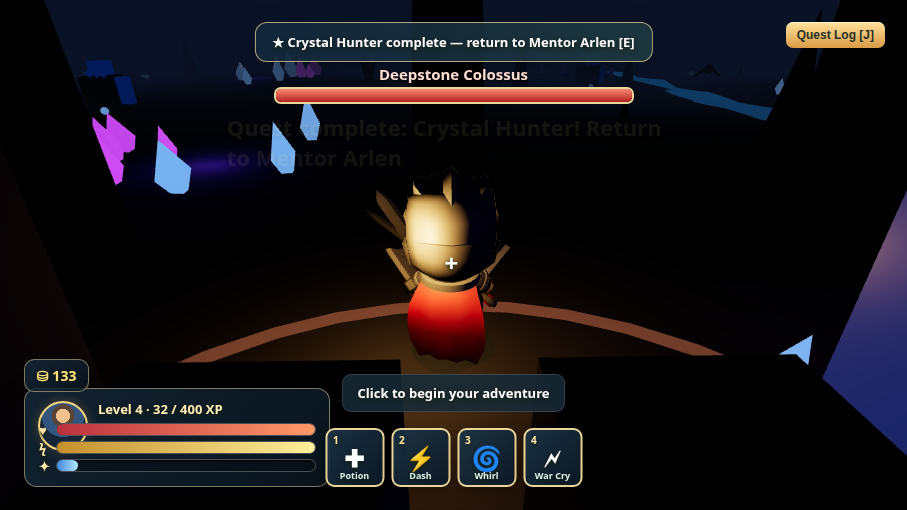
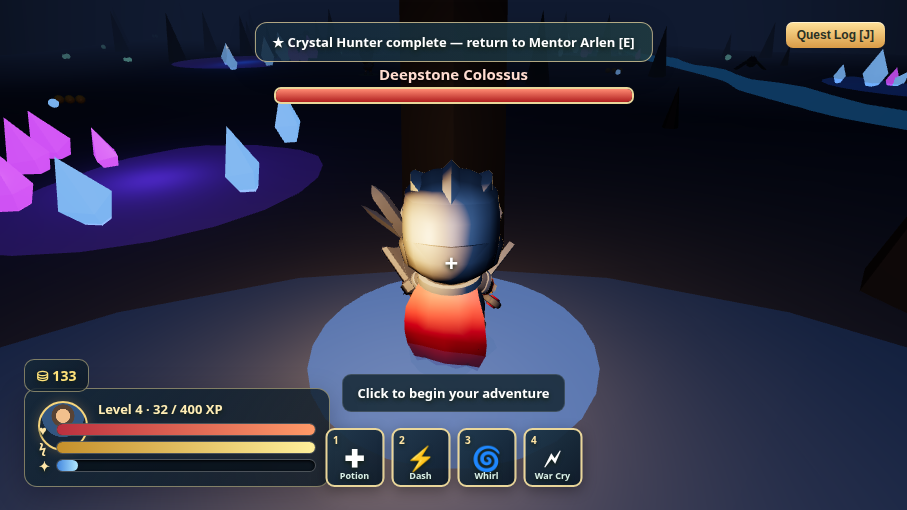
fix: cave readability — brighter ambient, 2.5x torch, moonwell boss light, emissive glow discs, toast lifecycle fix, player fill light

diff --git a/src/main.js b/src/main.js
@@ -9,7 +9,7 @@ renderer.setPixelRatio(Math.min(devicePixelRatio,2)); renderer.setSize(innerWidt
 const scene=new THREE.Scene(); scene.background=new THREE.Color('#8eb9d6'); scene.fog=new THREE.Fog('#a9c5d3',50,148);
 const camera=new THREE.PerspectiveCamera(58,innerWidth/innerHeight,.1,180); const clock=new THREE.Clock();
 const hemi=new THREE.HemisphereLight('#d5efff','#26411f',2.15);scene.add(hemi); const sun=new THREE.DirectionalLight('#ffd49a',3.1); sun.position.set(-55,64,28);sun.castShadow=true;sun.shadow.mapSize.set(1536,1536);sun.shadow.camera.left=-80;sun.shadow.camera.right=80;sun.shadow.camera.top=80;sun.shadow.camera.bottom=-80;sun.shadow.bias=-.00025;scene.add(sun);
-const world=new THREE.Group();scene.add(world); const cave=new THREE.Group();cave.visible=false;scene.add(cave); const skyG=new THREE.Group();scene.add(skyG); const torch=new THREE.PointLight('#ffb35c',10,20,2);torch.visible=false;scene.add(torch); let occluders=null; const V=(x=0,y=0,z=0)=>new THREE.Vector3(x,y,z);
+const world=new THREE.Group();scene.add(world); const cave=new THREE.Group();cave.visible=false;scene.add(cave); const skyG=new THREE.Group();scene.add(skyG); const torch=new THREE.PointLight('#ffb35c',10,50,1.5);torch.visible=false;scene.add(torch); const pfill=new THREE.PointLight('#7fa0d8',3,9,2);pfill.visible=false;scene.add(pfill); let occluders=null; const V=(x=0,y=0,z=0)=>new THREE.Vector3(x,y,z);
 const state={pos:V(0,0,16),vel:V(),hp:100,maxHp:100,stamina:100,level:1,xp:0,gold:12,inventory:['ironSword','oakShield','potion','potion','valeArmor'],equipped:'ironSword',shield:'oakShield',armor:'valeArmor',quest:{id:0,progress:0,done:false},tutorialStep:0,kills:0,playing:false,blocking:false,attack:0,attackTime:0,mouseMoved:false,fps:60,particles:[],mobs:[],loot:[],saved:false,cameraDistance:9,cds:{dash:0,whirl:0,cry:0},buffTime:0,dashTime:0,dashDir:V(),iframes:0,hitStop:0,shake:0,spinTime:0,rings:[],boss:null,map:'vale',caveBoss:null,teles:[],projs:[]};
 const items={ironSword:{icon:'⚔',rarity:'rare',name:'Iron Sword',tip:'A trusty blade · 8/10/14 damage',damage:12,combo:[8,10,14],price:40},sunSword:{icon:'✦',rarity:'legendary',name:'Sunsteel Sword',tip:'A radiant sword · 14/18/25 damage',damage:22,combo:[14,18,25],price:120},fangBlade:{icon:'🐺',rarity:'legendary',name:'Fang Blade',tip:'Alpha Wolf fang · 12/15/21 damage',damage:12,combo:[12,15,21],price:110},oakShield:{icon:'⬡',rarity:'common',name:'Oak Shield',tip:'Sturdy oak · blocked hits deal 3 dmg',block:3,price:20},towerShield:{icon:'⛨',rarity:'rare',name:'Tower Shield',tip:'Massive steel · blocked hits deal 2 dmg',block:2,price:80},potion:{icon:'✚',rarity:'uncommon',name:'Red Potion',tip:'Restores 40 health',price:15},valeArmor:{icon:'♙',rarity:'rare',name:'Vale Guardmail',tip:'Light armor',hpBonus:0,price:50},valeArmor2:{icon:'♖',rarity:'rare',name:'Vale Armor Mk II',tip:'Reinforced plate · +25 max HP',hpBonus:25,price:100},coin:{icon:'●',rarity:'common',name:'Vale Coin',tip:'A gleaming coin',price:1},crystalShard:{icon:'◈',rarity:'rare',name:'Crystal Shard',tip:'A humming shard of cave crystal',price:25},colossusCore:{icon:'⬢',rarity:'epic',name:'Colossus Core',tip:'The still-warm heart of the Deepstone Colossus',price:250},runicSword:{icon:'ᛟ',rarity:'epic',name:'Runic Greatsword',tip:'Ancient runes burn along the blade · 16/20/28 damage',damage:20,combo:[16,20,28],price:260}};
 const sellVal=id=>Math.max(1,Math.round((items[id].price||5)*.4)),calcMaxHp=()=>100+(state.level-1)*15+(items[state.armor]?.hpBonus||0);
@@ -63,19 +63,21 @@ function buildCave(){const S=62,g=new THREE.PlaneGeometry(130,130,64,64),p=g.att
  for(let i=0;i<90;i++){let x=rand()*104-52,z=rand()*104-52;if(Math.abs(x+24)<5||Math.hypot(x,z-46)<8||Math.hypot(x,z+42)<11){i--;continue}const s=.5+rand()*1.1;dummy.position.set(x,caveHeight(x,z)+1.6*s,z);dummy.scale.setScalar(s);dummy.rotation.set(0,rand()*6,0);dummy.updateMatrix();stalUp.setMatrixAt(i,dummy.matrix);let x2=rand()*104-52,z2=rand()*104-52;dummy.position.set(x2,12.4-1.8*s,z2);dummy.rotation.set(Math.PI,rand()*6,0);dummy.updateMatrix();stalDn.setMatrixAt(i,dummy.matrix)}
  const cryB=new THREE.InstancedMesh(new THREE.OctahedronGeometry(.7,0),crystalMatB,26),cryP=new THREE.InstancedMesh(new THREE.OctahedronGeometry(.7,0),crystalMatP,26);cryB.name=cryP.name='crystal-instance';cave.add(cryB,cryP);
  const lightSpots=[[8,38],[-16,20],[18,4],[-30,-8],[10,-24],[-6,-42]];for(let i=0;i<26;i++){const near=lightSpots[i%6],x=near[0]+(rand()-.5)*10,z=near[1]+(rand()-.5)*10,s=.5+rand()*.9;dummy.position.set(x,caveHeight(x,z)+.55*s,z);dummy.scale.set(s*.7,s*1.6,s*.7);dummy.rotation.set((rand()-.5)*.6,rand()*6,(rand()-.5)*.6);dummy.updateMatrix();cryB.setMatrixAt(i,dummy.matrix);const x2=near[0]+(rand()-.5)*12,z2=near[1]+(rand()-.5)*12;dummy.position.set(x2,caveHeight(x2,z2)+.4*s,z2);dummy.updateMatrix();cryP.setMatrixAt(i,dummy.matrix)}
- for(const [lx,lz] of lightSpots){const l=new THREE.PointLight(Math.random()>.5?'#4f8dff':'#9a5cff',6,16,2);l.position.set(lx,caveHeight(lx,lz)+1.6,lz);cave.add(l)}
+ function glowDisc(x,z,r,color,op=.35){const m=mesh(new THREE.CircleGeometry(r,24),new THREE.MeshBasicMaterial({color,transparent:true,opacity:op,blending:THREE.AdditiveBlending,depthWrite:false}),V(x,caveHeight(x,z)+.07,z),1,cave);m.rotation.x=-Math.PI/2;m.castShadow=m.receiveShadow=false;return m}
+ lightSpots.forEach(([lx,lz],i)=>{glowDisc(lx,lz,5.5,i%2?'#2a3f8a':'#4a2a8a',.4);if(i%2===0){const l=new THREE.PointLight(i%4?'#4f8dff':'#9a5cff',8,20,1.8);l.position.set(lx,caveHeight(lx,lz)+1.8,lz);cave.add(l)}});
+ const moon=new THREE.PointLight('#a8c8ff',14,48,1.5);moon.position.set(0,9.5,-42);cave.add(moon);glowDisc(0,-42,11,'#24406e',.32);
  const streamMat=new THREE.ShaderMaterial({transparent:true,side:THREE.DoubleSide,uniforms:{time:{value:0},sun:{value:new THREE.Vector3(0,1,.2)}},vertexShader:`varying vec3 vN;varying vec3 vP;uniform float time;void main(){vec3 p=position;p.z+=sin(p.x*.75+time*1.7)*.13+sin(p.y*.53-time*1.2)*.1;vN=normal;vP=(modelMatrix*vec4(p,1.)).xyz;gl_Position=projectionMatrix*modelViewMatrix*vec4(p,1.);}`,fragmentShader:`varying vec3 vN;varying vec3 vP;uniform vec3 sun;void main(){float fres=pow(1.-max(0.,dot(normalize(vN),normalize(cameraPosition-vP))),3.);float glint=pow(max(0.,dot(normalize(reflect(-sun,normalize(vN))),normalize(cameraPosition-vP))),18.);gl_FragColor=vec4(mix(vec3(.012,.07,.14),vec3(.06,.25,.42),fres)+glint*.3,.86);}`});
  const stream=mesh(new THREE.PlaneGeometry(7,116,4,40),streamMat,V(-24,-.62,0),1,cave);stream.rotation.x=-Math.PI/2;stream.name='cave-water';
  for(let i=0;i<14;i++){const x=rand()*96-48,z=rand()*96-48,cl=new THREE.Group();cl.position.set(x,caveHeight(x,z),z);cave.add(cl);for(let j=0;j<3;j++){const mx=(rand()-.5)*.9,mz=(rand()-.5)*.9,s=.14+rand()*.16;mesh(new THREE.CylinderGeometry(.05,.07,.4,5),mat('#c9c2a8'),V(mx,.2,mz),1,cl);mesh(new THREE.SphereGeometry(s,6,5),new THREE.MeshStandardMaterial({color:'#7fe8c9',emissive:'#1fbf8f',emissiveIntensity:1.3,roughness:.5}),V(mx,.42,mz),1,cl)}}
  const ex=new THREE.Group();ex.position.set(CAVE_EXIT.x,caveHeight(CAVE_EXIT.x,CAVE_EXIT.z),CAVE_EXIT.z);cave.add(ex);for(const q of [-2.2,2.2]){const p=mesh(new THREE.DodecahedronGeometry(1.4,0),caveRock,V(q,1.3,0),1,ex);p.scale.y=1.8}mesh(new THREE.DodecahedronGeometry(1.7,0),caveRock,V(0,3.7,0),1,ex).scale.set(1.6,.7,1);mesh(new THREE.CircleGeometry(1.8,20),new THREE.MeshBasicMaterial({color:'#cfe8d2'}),V(0,1.6,-.2),1,ex).rotation.y=Math.PI;for(let i=0;i<5;i++){const a=-.9+i*.45;mesh(new THREE.BoxGeometry(.2,.3,.1),runeMat,V(Math.sin(a)*2.3,1.8+Math.cos(a)*1.9,.6),1,ex)}
  for(let i=0;i<8;i++){const a=i/8*Math.PI*2;mesh(new THREE.CylinderGeometry(.9,1.3,10,6),caveRockD,V(Math.sin(a)*13,4.5,-42+Math.cos(a)*13),1,cave)}}
 function spawnCaveMobs(){[['Cave Bat',-10,26],['Cave Bat',14,10],['Cave Bat',-20,-6],['Crystal Golem',10,22],['Crystal Golem',-14,4],['Crystal Golem',20,-14],['Skeleton',-4,14],['Skeleton',6,-4]].forEach(([t,x,z])=>makeEnemy(t,x,z,'cave'))}
-function spawnCaveBoss(){if(state.caveBoss&&!state.caveBoss.dead)return state.caveBoss;const e=makeEnemy('Crystal Golem',0,-42,'cave');e.type='Deepstone Colossus';e.boss=true;e.colossus=true;e.hp=e.max=600;e.body.scale.setScalar(2.6);e.b=null;e.tele=0;e.summoned=false;e.ui.firstChild.textContent='Deepstone Colossus';state.caveBoss=e;return e}
+function spawnCaveBoss(){if(state.caveBoss&&!state.caveBoss.dead)return state.caveBoss;const e=makeEnemy('Crystal Golem',0,-42,'cave');e.type='Deepstone Colossus';e.boss=true;e.colossus=true;e.hp=e.max=600;e.body.scale.setScalar(2.6);e.body.traverse(o=>{if(o.isMesh&&o.material.emissive&&(o.material.emissive.r||o.material.emissive.g||o.material.emissive.b))o.material.emissiveIntensity=1.6});e.b=null;e.tele=0;e.summoned=false;e.ui.firstChild.textContent='Deepstone Colossus';state.caveBoss=e;return e}
 function telegraphFX(pos,r,life,color,disc=false){const m=mesh(disc?new THREE.CircleGeometry(r,26):new THREE.RingGeometry(r-.35,r,36),new THREE.MeshBasicMaterial({color,transparent:true,opacity:.55,side:THREE.DoubleSide,depthWrite:false}),pos.clone().setY(gY(pos.x,pos.z)+.12),1,grp());m.rotation.x=-Math.PI/2;state.teles.push({m,life});return m}
-function updateTeles(dt){for(let i=state.teles.length-1;i>=0;i--){const q=state.teles[i];q.life-=dt;q.m.material.opacity=.25+.4*Math.abs(Math.sin(performance.now()*.012));if(q.life<=0){q.m.removeFromParent();q.m.material.dispose();state.teles.splice(i,1)}}
+function updateTeles(dt){for(let i=state.teles.length-1;i>=0;i--){const q=state.teles[i];q.life-=dt;q.m.material.opacity=.45+.4*Math.abs(Math.sin(performance.now()*.012));if(q.life<=0){q.m.removeFromParent();q.m.material.dispose();state.teles.splice(i,1)}}
  for(let i=state.projs.length-1;i>=0;i--){const q=state.projs[i];q.t+=dt/q.dur;const p=q.from.clone().lerp(q.to,Math.min(1,q.t));p.y+=Math.sin(Math.min(1,q.t)*Math.PI)*6;q.m.position.copy(p);if(q.t>=1){burst(q.to,'#8a93a8',10,4);if(player.position.distanceTo(q.to)<2.2)hitPlayer(20);state.shake=.35;sound('hit');q.m.removeFromParent();state.projs.splice(i,1)}}}
 const fadeEl=document.querySelector('#fade'),caveLabelEl=document.querySelector('#caveLabel');
-function setMap(m){state.map=m;const inCave=m==='cave';world.visible=!inCave;cave.visible=inCave;skyG.visible=!inCave;torch.visible=inCave;sun.intensity=inCave?0:3.1;hemi.intensity=inCave?.28:2.15;hemi.color.set(inCave?'#33415e':'#d5efff');hemi.groundColor.set(inCave?'#0a0d16':'#26411f');scene.background=new THREE.Color(inCave?'#060a14':'#8eb9d6');scene.fog.color.set(inCave?'#0a1226':'#a9c5d3');scene.fog.near=inCave?14:50;scene.fog.far=inCave?60:148;occluders=null;document.querySelector('#bossbar').style.display='none';for(const e of state.mobs){if(e.boss)e.barShown=false;e.root.visible=!e.dead&&e.map===m;if(e.map!==m&&e.uiShown!==false){e.uiShown=false;e.ui.style.display='none'}}for(const l of state.loot)l.root.visible=l.map===m;if(player.parent!==(inCave?cave:world)){(inCave?cave:world).add(player)}caveLabelEl.style.display='none';save()}
+function setMap(m){state.map=m;const inCave=m==='cave';world.visible=!inCave;cave.visible=inCave;skyG.visible=!inCave;torch.visible=inCave;pfill.visible=inCave;if(state.fireLight)state.fireLight.visible=!inCave;sun.intensity=inCave?0:3.1;hemi.intensity=inCave?.95:2.15;hemi.color.set(inCave?'#4a5d85':'#d5efff');hemi.groundColor.set(inCave?'#1a2233':'#26411f');scene.background=new THREE.Color(inCave?'#0a1020':'#8eb9d6');scene.fog.color.set(inCave?'#101a30':'#a9c5d3');scene.fog.near=inCave?18:50;scene.fog.far=inCave?72:148;occluders=null;document.querySelector('#bossbar').style.display='none';for(const e of state.mobs){if(e.boss)e.barShown=false;e.root.visible=!e.dead&&e.map===m;if(e.map!==m&&e.uiShown!==false){e.uiShown=false;e.ui.style.display='none'}}for(const l of state.loot)l.root.visible=l.map===m;if(player.parent!==(inCave?cave:world)){(inCave?cave:world).add(player)}caveLabelEl.style.display='none';const tE=document.querySelector('#toast');tE.style.opacity=0;clearTimeout(toast._t);save()}
 function transition(fn){fadeEl.style.opacity=1;setTimeout(()=>{fn();setTimeout(()=>fadeEl.style.opacity=0,120)},520)}
 function questEnterCave(){const q=QUESTS[state.quest.id];if(q&&q.enter&&!state.quest.done){state.quest.progress=1;state.quest.done=true;toast(`Quest complete: ${q.name}! Return to Mentor Arlen`);save()}}
 function enterCave(force=false){if(state.map==='cave')return false;if(!force&&state.quest.id<6&&state.level<5){toast('Too dangerous — reach level 5');return false}transition(()=>{setMap('cave');state.pos.set(CAVE_SPAWN.x,caveHeight(CAVE_SPAWN.x,CAVE_SPAWN.z),CAVE_SPAWN.z);state.vel.set(0,0,0);player.position.copy(state.pos);spawnCaveBoss();toast('The Hollow Depths');sound('start');questEnterCave()});return true}
@@ -124,7 +126,7 @@ function renderInventory(){document.querySelector('#invGold').textContent=state.
 const key=t=>`<kbd>${t}</kbd>`,steps=[`Move with ${key('W')} ${key('A')} ${key('S')} ${key('D')}`,'Look around with the <b>mouse</b>',`Jump over the fence: ${key('SPACE')}`,`Hold ${key('SHIFT')} to sprint`,`Strike the training dummy: ${key('LMB')}`,`Hold ${key('RMB')} to block`,`Press ${key('E')} to pick up a sword`,`Press ${key('I')} to open inventory and equip it`,'Speak to Mentor Arlen, then defeat <b>3 Slimes</b>'];
 function tutorial(n){if(n>8)return;if(n===8&&state.kills<3)return;if(n<state.tutorialStep)return;if(n===8&&state.kills>=3){state.tutorialStep=9;document.querySelector('#end').classList.add('open');save();return}if(n===state.tutorialStep||n>state.tutorialStep){state.tutorialStep=Math.min(n+1,8);save()}}
 document.querySelector('#quest').onclick=e=>{if(state.tutorialStep>=9||e.target.tagName==='BUTTON')return;state.tutorialStep=9;document.querySelector('#end').classList.add('open')};
-function toast(t){let e=document.querySelector('#toast');e.textContent=t;e.style.opacity=1;setTimeout(()=>e.style.opacity=0,1800)}
+function toast(t){let e=document.querySelector('#toast');e.textContent=t;e.style.opacity=1;clearTimeout(toast._t);toast._t=setTimeout(()=>e.style.opacity=0,1800)}
 function damageNumber(p,n){const e=document.createElement('div');e.className='damage';e.textContent=`-${n}`;hud.append(e);const start=performance.now(),tick=()=>{let d=(performance.now()-start)/700,ndc=p.clone().add(V(0,1+d*1.4,0)).project(camera);e.style.left=((ndc.x+1)*innerWidth*.5)+'px';e.style.top=((-ndc.y+1)*innerHeight*.5-d*22)+'px';e.style.opacity=String(1-d);if(d<1)requestAnimationFrame(tick);else e.remove()};tick()}
 function save(){saveData('aetherblade.save',JSON.stringify({level:state.level,xp:state.xp,gold:state.gold,inventory:state.inventory,equipped:state.equipped,shield:state.shield,armor:state.armor,quest:state.quest,tutorialStep:state.tutorialStep,map:state.map}));}function load(){try{let s=JSON.parse(loadData('aetherblade.save'));if(s){for(let k of ['level','xp','gold','inventory','equipped','shield','armor','quest','tutorialStep'])if(s[k]!=null)state[k]=s[k];state.maxHp=calcMaxHp();state.hp=state.maxHp;if(s.map==='cave'){setMap('cave');state.pos.set(CAVE_SPAWN.x,caveHeight(CAVE_SPAWN.x,CAVE_SPAWN.z),CAVE_SPAWN.z);player.position.copy(state.pos);spawnCaveBoss()}}}catch{}}
 load();renderInventory();maybeStartQuests();
@@ -147,7 +149,7 @@ function updateColossus(e,dt){let d=player.position.clone().sub(e.root.position)
  if(e.hp<=e.max/2&&!e.summoned){e.summoned=true;for(const q of [-3,3]){const b=makeEnemy('Cave Bat',e.root.position.x+q,e.root.position.z+2,'cave');b.summon=true}toast('The Colossus roars — bats swarm from the dark!')}
  if(e.b==='smash'){if(e.tele<=0){e.b=null;e.cool=2.4;burst(e.root.position.clone().add(V(0,.5,0)),'#9fb8ff',14,5);state.shake=.6;sound('hit');if(player.position.distanceTo(e.root.position)<6)hitPlayer(30)}else e.body.position.y=.9*(e.tele/1.2)}
  else if(e.b==='throw'){if(e.tele<=0){e.b=null;e.cool=2.8;const rock=mesh(new THREE.DodecahedronGeometry(.55,0),caveRock,e.root.position.clone().add(V(0,5,0)),1,cave);state.projs.push({m:rock,from:e.root.position.clone().add(V(0,5,0)),to:e.throwTo.clone(),t:0,dur:.9})}}
- else{if(len<26&&len>4){d.normalize();e.root.position.addScaledVector(d,1.4*dt);e.root.position.y=caveHeight(e.root.position.x,e.root.position.z);e.root.rotation.y=Math.atan2(d.x,d.z)}if(e.cool<=0&&len<30){if(len<7){e.b='smash';e.tele=1.2;telegraphFX(e.root.position,6,1.2,'#ff6a4a')}else{e.b='throw';e.tele=1;e.throwTo=player.position.clone();e.throwTo.y=caveHeight(e.throwTo.x,e.throwTo.z);telegraphFX(e.throwTo,2.2,1.9,'#222833',true)}}}
+ else{if(len<26&&len>4){d.normalize();e.root.position.addScaledVector(d,1.4*dt);e.root.position.y=caveHeight(e.root.position.x,e.root.position.z);e.root.rotation.y=Math.atan2(d.x,d.z)}if(e.cool<=0&&len<30){if(len<7){e.b='smash';e.tele=1.2;telegraphFX(e.root.position,6,1.2,'#ff6a4a')}else{e.b='throw';e.tele=1;e.throwTo=player.position.clone();e.throwTo.y=caveHeight(e.throwTo.x,e.throwTo.z);telegraphFX(e.throwTo,2.2,1.9,'#5a6f9e',true)}}}
  if(e.b!=='smash')e.body.position.y=0;const show=len<34&&!e.dead;if(show!==e.barShown){e.barShown=show;bossBarEl.style.display=show?'block':'none';if(show)bossNameEl.textContent='Deepstone Colossus'}if(show)bossFillEl.style.width=Math.max(0,e.hp/e.max*100)+'%'}
 function updateParticles(dt){for(let i=state.particles.length-1;i>=0;i--){let q=state.particles[i];q.life-=dt;q.p.addScaledVector(q.v,dt);q.v.y-=8*dt;if(!q.m){q.m=mesh(new THREE.SphereGeometry(.08,4,3),mat(q.color),q.p,1,grp())}q.m.position.copy(q.p);q.m.scale.setScalar(q.life);if(q.life<=0){q.m.removeFromParent();state.particles.splice(i,1)}}for(let i=state.rings.length-1;i>=0;i--){let q=state.rings[i];q.life+=dt;const r=.6+q.life*q.maxR*2.2;q.m.scale.setScalar(r/.72);q.m.material.opacity=.85*(1-q.life/.55);if(q.life>.55){q.m.removeFromParent();q.m.material.dispose();state.rings.splice(i,1)}}}
 function forceGameOver(){toast('You were knocked out — restored at campfire');state.hp=state.maxHp;if(state.map==='cave')state.pos.set(CAVE_SPAWN.x,caveHeight(CAVE_SPAWN.x,CAVE_SPAWN.z),CAVE_SPAWN.z);else state.pos.set(0,height(0,16),16)}
@@ -163,7 +165,7 @@ function updateCamera(dt){const dist=state.cameraDistance,desired=state.pos.clon
 function renderUI(){document.querySelector('#hp').style.width=state.hp/state.maxHp*100+'%';document.querySelector('#st').style.width=state.stamina+'%';document.querySelector('#xp').style.width=state.xp/(state.level*100)*100+'%';document.querySelector('#level').textContent=`Level ${state.level} · ${state.xp} / ${state.level*100} XP`;document.querySelector('#goldHud').textContent=`⛁ ${state.gold}`;let s=state.tutorialStep,q=QUESTS[state.quest.id];document.querySelector('#quest').innerHTML=s<9?`Tutorial ${s+1}/9 · ${steps[s]} <button id="skip">Skip tutorial</button>`:q?(state.quest.done?`★ ${q.name} complete — return to Mentor Arlen [E]`:`${q.name} ${state.quest.progress}/${q.target} · ${q.desc} <button id="qlogBtn2">Quests [J]</button>`):'All quests complete · Emerald Vale';let skip=document.querySelector('#skip');if(skip)skip.onclick=()=>{state.tutorialStep=9;document.querySelector('#end').classList.add('open');save()};let qb=document.querySelector('#qlogBtn2');if(qb)qb.onclick=toggleQuestLog;
  const cdMax={dash:3,whirl:6,cry:20},cost={dash:25,whirl:15,cry:0};['dash','whirl','cry'].forEach((k,i)=>{const s=slotEls[i+1],c=coolEls[i+1],cd=state.cds[k];if(cd>0){c.style.display='grid';c.textContent=Math.ceil(cd);c.style.background=`conic-gradient(#000b ${cd/cdMax[k]*360}deg,#0003 0)`}else c.style.display='none';s.classList.toggle('dis',state.stamina<cost[k])});}
 const slotEls=[...document.querySelectorAll('#hotbar .slot')],coolEls=slotEls.map(s=>s.querySelector('.cool'));
-let frames=0,lastF=performance.now();function frame(){let dt=Math.min(clock.getDelta(),.05),t=performance.now();if(state.hitStop>0){state.hitStop-=dt;dt=0}frames++;if(t-lastF>500){state.fps=Math.round(frames*1000/(t-lastF));frames=0;lastF=t}const water=scene.getObjectByName('water');if(water)water.material.uniforms.time.value=t*.001;grp().traverse(o=>{if(o.material?.uniforms?.time)o.material.uniforms.time.value=t*.001;if(o.name==='flame')o.scale.y=.8+Math.sin(t*.01+o.id)*.25});for(const a of animatedActors)a.mixer.update(dt);if(state.fireLight)state.fireLight.intensity=14+Math.sin(t*.012)*2+Math.sin(t*.023)*1.2;if(state.map==='cave'){torch.position.copy(state.pos).add(V(Math.sin(yaw+.6)*1.2,2.3,-Math.cos(yaw+.6)*1.2));torch.intensity=9+Math.sin(t*.013)*1.4+Math.sin(t*.027)*.8}scene.children.filter(o=>o.userData.drift).forEach(o=>{o.position.x+=o.userData.drift*dt;if(o.position.x>95)o.position.x=-95});updatePlayer(dt);updateCamera(dt);updateMobs(dt);updateParticles(dt);updateTeles(dt);updateCaveLabel();renderUI();renderer.render(scene,camera);requestAnimationFrame(frame)}
+let frames=0,lastF=performance.now();function frame(){let dt=Math.min(clock.getDelta(),.05),t=performance.now();if(state.hitStop>0){state.hitStop-=dt;dt=0}frames++;if(t-lastF>500){state.fps=Math.round(frames*1000/(t-lastF));frames=0;lastF=t}const water=scene.getObjectByName('water');if(water)water.material.uniforms.time.value=t*.001;grp().traverse(o=>{if(o.material?.uniforms?.time)o.material.uniforms.time.value=t*.001;if(o.name==='flame')o.scale.y=.8+Math.sin(t*.01+o.id)*.25});for(const a of animatedActors)a.mixer.update(dt);if(state.fireLight)state.fireLight.intensity=14+Math.sin(t*.012)*2+Math.sin(t*.023)*1.2;if(state.map==='cave'){torch.position.copy(state.pos).add(V(Math.sin(yaw+.6)*1.2,2.3,-Math.cos(yaw+.6)*1.2));torch.intensity=13+Math.sin(t*.013)*1.4+Math.sin(t*.027)*.8;pfill.position.copy(state.pos).add(V(Math.sin(yaw)*1.6,2.5,-Math.cos(yaw)*1.6))}scene.children.filter(o=>o.userData.drift).forEach(o=>{o.position.x+=o.userData.drift*dt;if(o.position.x>95)o.position.x=-95});updatePlayer(dt);updateCamera(dt);updateMobs(dt);updateParticles(dt);updateTeles(dt);updateCaveLabel();renderUI();renderer.render(scene,camera);requestAnimationFrame(frame)}
 function updateCaveLabel(){const near=state.map==='vale'&&Math.hypot(state.pos.x-ENTRANCE.x,state.pos.z-ENTRANCE.z)<14,exitNear=state.map==='cave'&&Math.hypot(state.pos.x-CAVE_EXIT.x,state.pos.z-CAVE_EXIT.z)<12;if(!near&&!exitNear){if(caveLabelEl.style.display!=='none')caveLabelEl.style.display='none';return}const anchor=near?ENTRANCE.clone().add(V(0,5.2,0)):V(CAVE_EXIT.x,caveHeight(CAVE_EXIT.x,CAVE_EXIT.z)+4.6,CAVE_EXIT.z),p=screenPosition(anchor);if(!p.visible){caveLabelEl.style.display='none';return}caveLabelEl.textContent=near?'The Hollow Depths [E]':'Return to Emerald Vale [E]';caveLabelEl.style.display='block';caveLabelEl.style.left=p.x+'px';caveLabelEl.style.top=p.y+'px'}
 document.querySelector('#endgameClose').onclick=closePanels;
 addEventListener('resize',()=>{renderer.setPixelRatio(Math.min(devicePixelRatio,2));renderer.setSize(innerWidth,innerHeight);camera.aspect=innerWidth/innerHeight;camera.updateProjectionMatrix()});

diff --git a/qa/M1_PROOF.md b/qa/M1_PROOF.md
@@ -107,3 +107,12 @@ All tests ran against `dist` on the isolated local port `8701`, using `/usr/bin/
 
 - [Inside the Hollow Depths — crystals, mushrooms, torch light — 907×510](screenshots/cave-907.png)
 - [Deepstone Colossus + boss bar + crystal cavern — 907×510](screenshots/cave-boss-907.png)
+
+## M4.1 — Cave readability pass
+
+- **Cave lighting**: hemisphere raised (0.28 → 0.95, cool blue-grey `#4a5d85`/`#1a2233`), fog pushed out (18–72), background lifted to `#0a1020` — floor/walls/stalagmites now read as dark blue-grey silhouettes instead of pure black. Player torch radius widened 2.5× (20 → 50, decay 2 → 1.5, intensity 13) with gentle falloff.
+- **Light budget kept at 6 cave point lights** (torch, player fill, 3 crystal cluster lights, boss-chamber moonwell); the other 3 crystal clusters + moonwell floor now use **additive-blend emissive glow discs** that fake bounce light on the floor. Campfire light disabled while in cave. Soak stayed ≥30fps.
+- **Boss visibility**: large cool "moonwell" point light (intensity 14, range 48) over the boss chamber at (0,−42) + boosted emissive crystal veins on the Colossus body (emissiveIntensity 1.6). Rock-throw shadow telegraph recolored `#222833` → `#5a6f9e` and telegraph pulse floor opacity raised .25 → .45 so AoE ring/shadow read on the dark floor. Verified in e2e via **pixel luminance sample: mean luminance 108.2 in a 60×80px box around the boss's projected screen position** (asserted > 28) in `cave-boss-907.png`.
+- **Lingering "Quest complete: Crystal Hunter!" text**: this was the HUD `#toast` element — `toast()` scheduled a fixed fade but repeated toasts raced older timeouts (a later `setTimeout` from an earlier toast could be pre-empted, leaving text at opacity 1). Fixed: `toast()` now clears/re-arms a single tracked timeout (fades ≤1.8s < 4s), and `setMap()` force-hides the toast so it never survives map swaps.
+- **Player readability in TPP**: small cool fill point light (`#7fa0d8`, intensity 3, range 9) follows behind the player in cave so the knight reads from the camera side.
+- Re-verified sequentially: `npm run build` ✓, `node tests/e2e.mjs` ✓ (incl. new boss-luminance assertion), `node tests/viewport.mjs` ✓, `node tests/soak.mjs` ✓ (≥30fps). Screenshots `cave-907.png` and `cave-boss-907.png` regenerated with `?debug=1&capture=1`.
